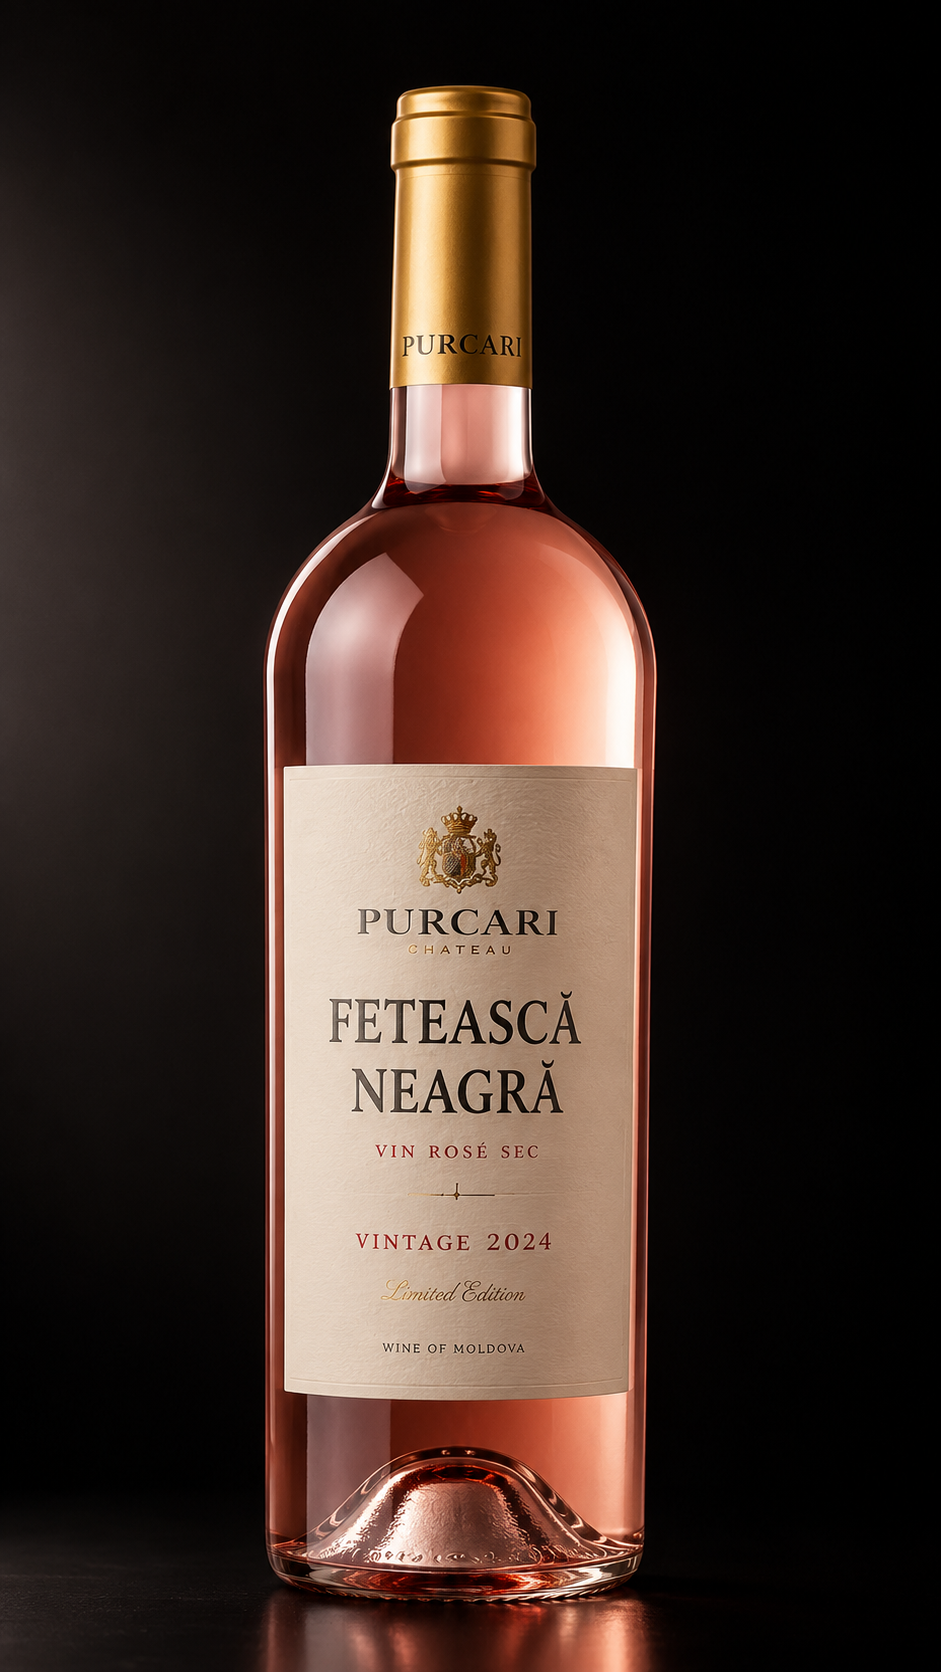
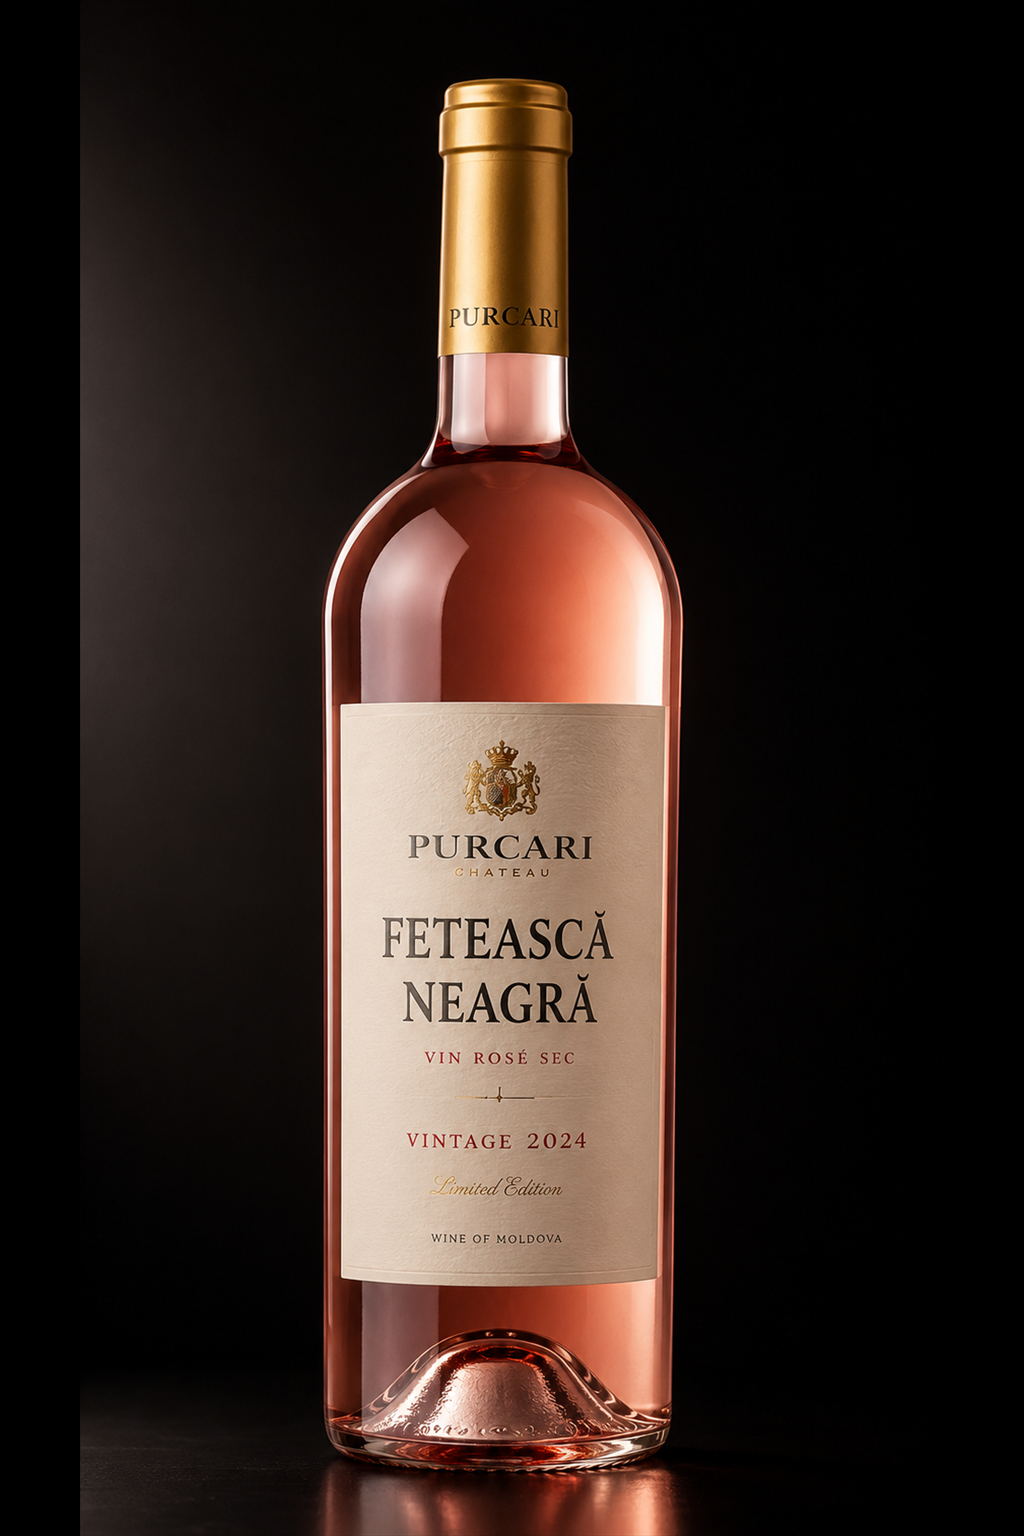
Fix rosé bottle crop offset + cache-bust bottle image URLs
Rosé crop was visibly shifted vs. the red/white cards: the AI-generated
photo the user supplied was 941x1672px, while the red and white bottle
photos are both 1024x1536px. .vs-bottle-wrap's CSS crop
(object-fit:cover + object-position:left center) computes its visible
window relative to the source image's own dimensions, so a differently
proportioned source lands the crop in a different spot — in this case
revealing more of the label instead of a clean bottle silhouette.
Padded the rosé photo onto a 1024x1536 black canvas (matching the other
two exactly, scaled to fit height, centered horizontally) so all three
bottle photos crop identically. The black padding is invisible against
the existing black studio background.

Also reported: the white bottle briefly appeared to show the wrong
image after deploy. The file and server response were both verified
correct (fresh, uncached fetch), but this exact URL served three
different images within the same browser-cache window while the asset
was being iterated on today, and server.js's static route sets
cache-control: public, max-age=3600 on it — a client that had fetched
it earlier in that hour would keep the stale cached image regardless of
what's actually deployed. Added a ?v=2 cache-busting query param to
both bottleUrl entries so this doesn't require anyone to manually
hard-refresh.

41/55 tests pass; 14 pre-existing failures unrelated (Postgres
integration / kos*).

diff --git a/src/visual/visualAssetRegistry.js b/src/visual/visualAssetRegistry.js
@@ -17,14 +17,21 @@ const ASSET_SETS = Object.freeze({
     // illustrating. Replaced with purpose-generated photos matching the red
     // bottle's studio-shot style (a hand-drawn SVG placeholder briefly
     // stood in here in between).
+    // ?v=2 cache-busts: the static route in server.js sets
+    // cache-control: public, max-age=3600 on these files, and this exact
+    // URL served three different images within the same hour while this
+    // asset was being iterated on — a browser (or intermediate cache) that
+    // fetched it earlier in that window would keep the stale response for
+    // up to an hour without a change in URL. Bump this query value any time
+    // these specific files are replaced again.
     'asset-codru-rose': Object.freeze({
         type: 'static-image',
-        bottleUrl: '/visual-assets/bottle-codru-rose.png',
+        bottleUrl: '/visual-assets/bottle-codru-rose.png?v=2',
         fallbackUrl: '/visual-assets/bottle-fallback.svg',
     }),
     'asset-stefan-viorica': Object.freeze({
         type: 'static-image',
-        bottleUrl: '/visual-assets/bottle-stefan-viorica.png',
+        bottleUrl: '/visual-assets/bottle-stefan-viorica.png?v=2',
         fallbackUrl: '/visual-assets/bottle-fallback.svg',
     }),
 });
